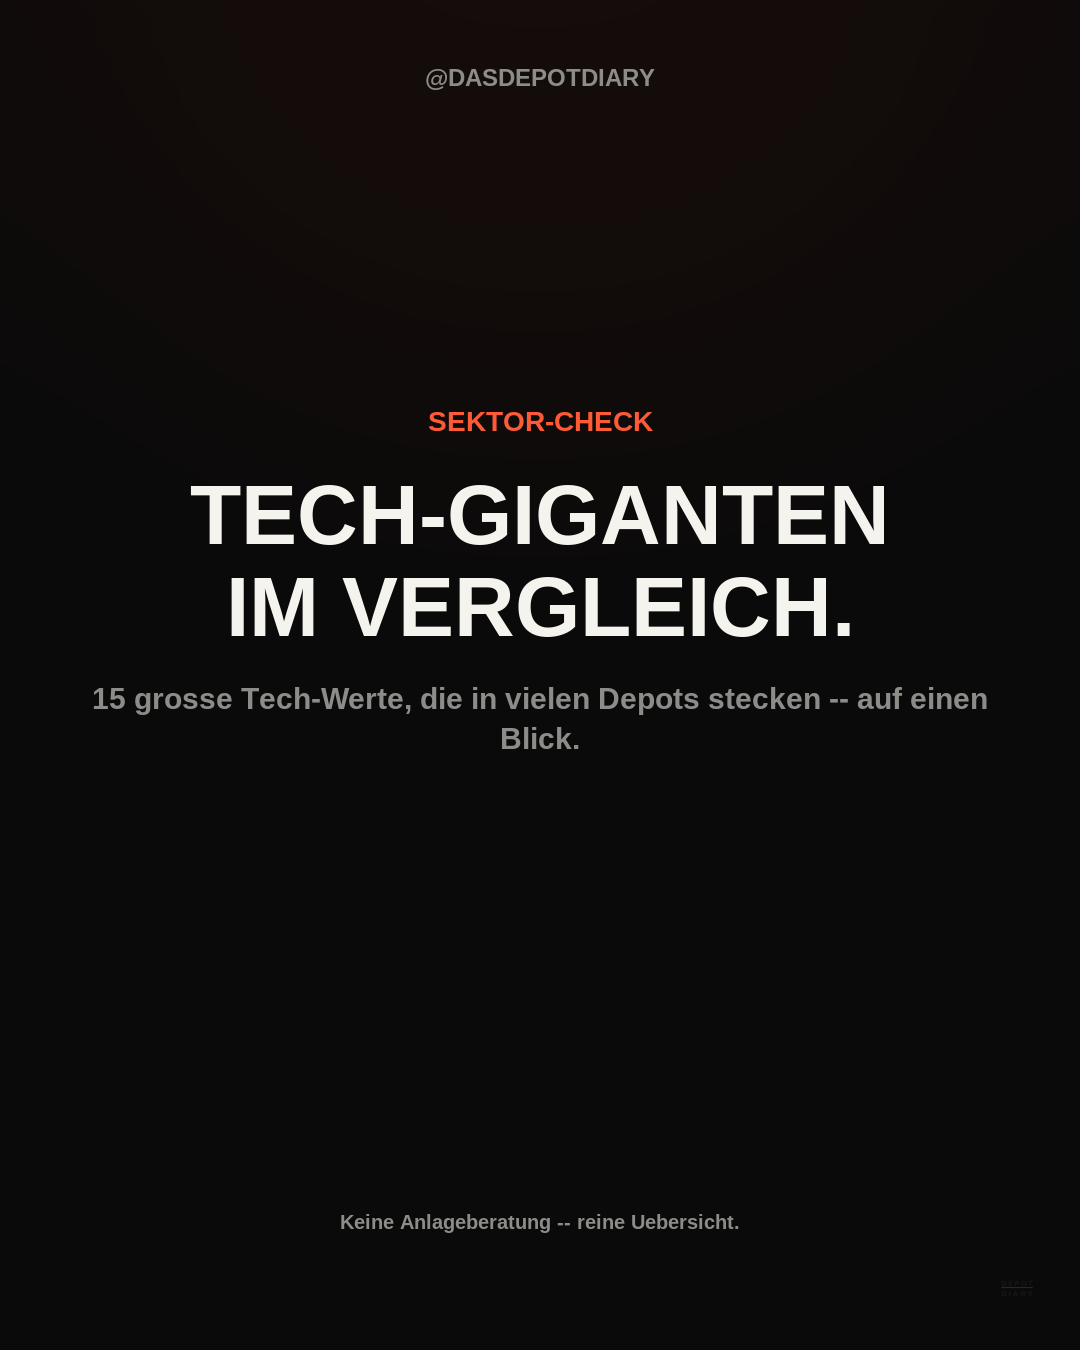
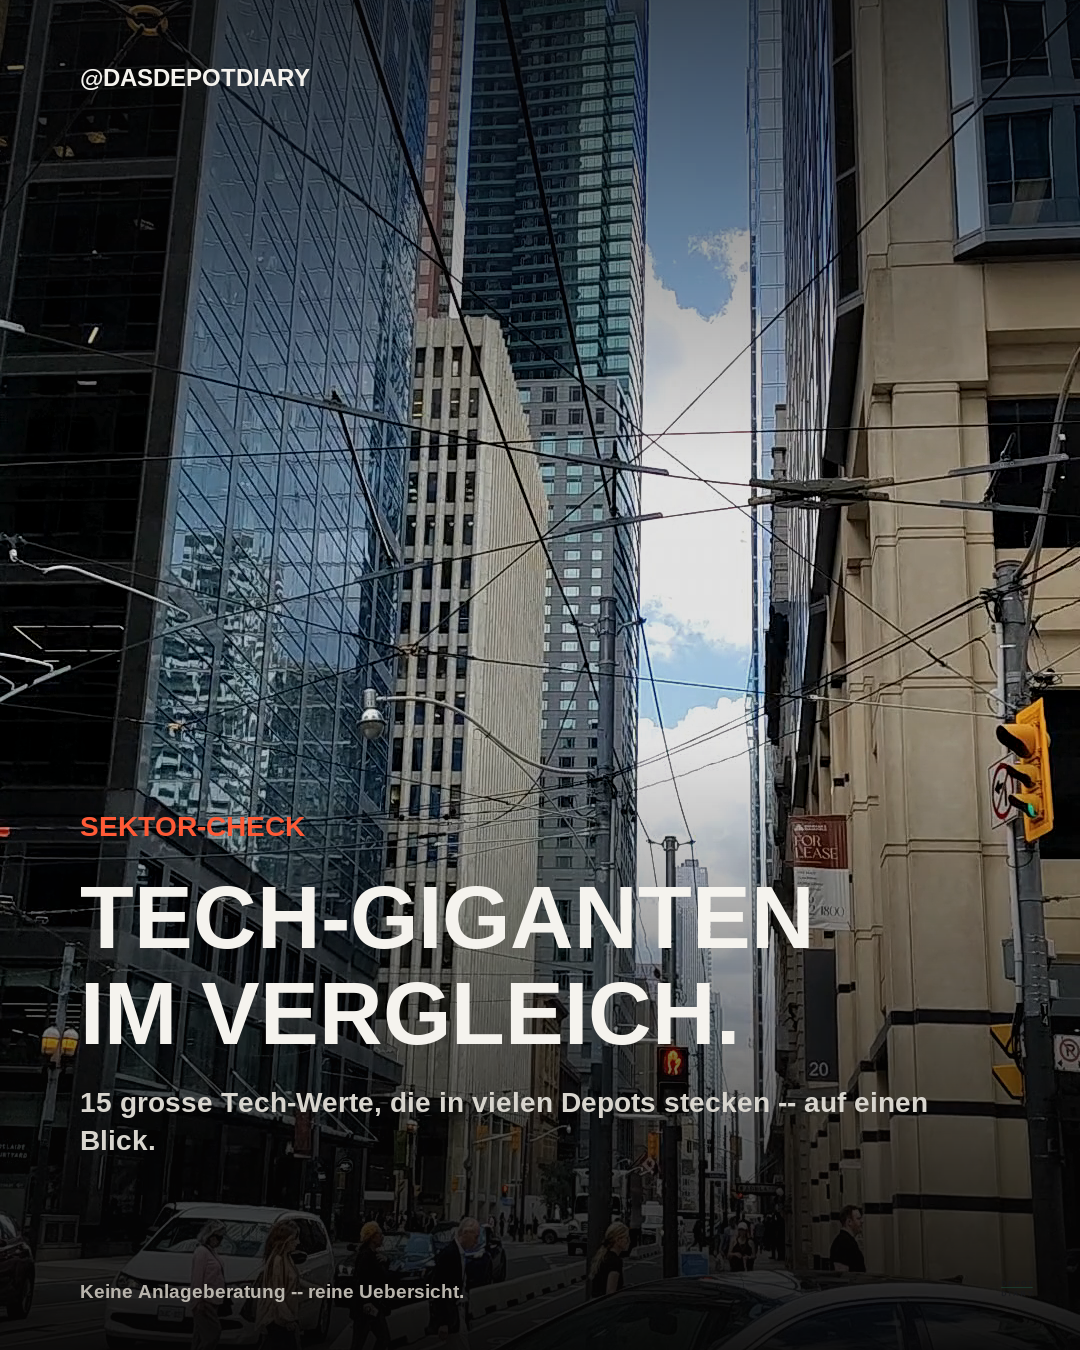
Titelfolie der Finanzhafen-Style-Formate naeher am Referenzvideo: echtes Strassen-/Skyline-Foto statt Flaechenfarbe, fette Caps-Headline buendig unten links (Nutzerwunsch: 'kopier ihn mal so gut du kannst nach'). Betrifft nur den Hook-Slide von format_wochenlogos.py (teilt sich format_sektor_tech + 

diff --git a/posts/format_wochenlogos.py b/posts/format_wochenlogos.py
@@ -18,7 +18,7 @@ Aufruf (Prototyp/Test):
 import sys
 from pathlib import Path
 
-from PIL import Image, ImageDraw, ImageFilter, ImageFont
+from PIL import Image, ImageDraw, ImageEnhance, ImageFilter, ImageFont
 
 sys.path.insert(0, str(Path(__file__).parent.parent))
 import brand as B
@@ -49,6 +49,7 @@ ACCENT = "#FF5A36"
 
 OWN_HANDLE = "@DASDEPOTDIARY"
 WORDMARK = ROOT / "assets" / "logo_depotdiary_stacked_transparent.png"
+HOOK_PHOTO = ROOT / "assets" / "downtown_street_still.png"
 
 
 def font(path, size):
@@ -96,38 +97,71 @@ def base_slide():
     return img, draw
 
 
+def hook_photo_background(photo_path=HOOK_PHOTO):
+    """Echtes Foto + dunkler Verlauf von unten -- Finanzhafen-inspirierte
+    Titelfolie (Foto+fette Headline) statt der flachen Farbflaeche."""
+    photo = Image.open(photo_path).convert("RGB")
+    if photo.size != (W, H):
+        src_ratio = photo.width / photo.height
+        dst_ratio = W / H
+        if src_ratio > dst_ratio:
+            new_w = int(photo.height * dst_ratio)
+            x0 = (photo.width - new_w) // 2
+            photo = photo.crop((x0, 0, x0 + new_w, photo.height))
+        else:
+            new_h = int(photo.width / dst_ratio)
+            y0 = (photo.height - new_h) // 2
+            photo = photo.crop((0, y0, photo.width, y0 + new_h))
+        photo = photo.resize((W, H))
+    img = ImageEnhance.Brightness(photo).enhance(0.85)
+    img = ImageEnhance.Contrast(img).enhance(1.08)
+    img = ImageEnhance.Color(img).enhance(0.9)
+
+    scrim = Image.new("L", (W, H), 0)
+    sdraw = ImageDraw.Draw(scrim)
+    for yy in range(H):
+        t = yy / H
+        if t < 0.35:
+            a = int(160 * (1 - t / 0.35))
+        elif t < 0.55:
+            a = 0
+        else:
+            a = int(235 * ((t - 0.55) / 0.45))
+        sdraw.line([(0, yy), (W, yy)], fill=a)
+    black = Image.new("RGB", (W, H), (6, 5, 5))
+    img = Image.composite(black, img, scrim)
+    return img
+
+
 def slide_hook(week_label, n_stocks, label="DIESE WOCHE", headline_lines=None, sub_text=None):
-    img, draw = base_slide()
+    img = hook_photo_background()
+    draw = ImageDraw.Draw(img)
+
     handle_font = font(B.SANS_BOLD, 24)
-    tw = draw.textlength(OWN_HANDLE, font=handle_font)
-    draw.text((W / 2 - tw / 2, 64), OWN_HANDLE, font=handle_font, fill=MUTED)
+    draw.text((80, 64), OWN_HANDLE, font=handle_font, fill=CREAM)
 
-    y = H * 0.30
+    y = H * 0.60
     label_font = font(B.SANS_BOLD, 28)
-    tw = draw.textlength(label, font=label_font)
-    draw.text((W / 2 - tw / 2, y), label, font=label_font, fill=ACCENT)
-    y += 62
+    draw.text((80, y), label, font=label_font, fill=ACCENT)
+    y += 58
 
-    title_font = font(B.SANS_BOLD, 84)
+    title_font = font(B.SANS_BOLD, 88)
     if headline_lines is None:
         headline_lines = [f"{n_stocks} AKTIEN", "IM CHECK."]
     for line in headline_lines:
-        tw = draw.textlength(line, font=title_font)
-        draw.text((W / 2 - tw / 2, y), line, font=title_font, fill=CREAM)
-        y += 92
+        draw.text((80, y), line, font=title_font, fill=CREAM)
+        y += 96
 
-    y += 30
-    sub_font = font(B.SANS_BOLD, 30)
+    y += 26
+    sub_font = font(B.SANS_BOLD, 28)
     sub = sub_text or f"Alle Aktien aus meinem Aktien-Check {week_label} -- auf einen Blick."
-    for line in wrap_text(draw, sub, sub_font, W - 180):
-        tw = draw.textlength(line, font=sub_font)
-        draw.text((W / 2 - tw / 2, y), line, font=sub_font, fill=MUTED)
-        y += 40
+    for line in wrap_text(draw, sub, sub_font, W - 160):
+        draw.text((80, y), line, font=sub_font, fill="#D8D5CE")
+        y += 38
 
-    note_font = font(B.SANS_BOLD, 20)
+    note_font = font(B.SANS_BOLD, 19)
     note = "Keine Anlageberatung -- reine Uebersicht."
-    tw = draw.textlength(note, font=note_font)
-    draw.text((W / 2 - tw / 2, H - 140), note, font=note_font, fill=MUTED)
+    draw.text((80, H - 70), note, font=note_font, fill="#B8B4AC")
 
     draw_wordmark_anchor(img, draw)
     return img
